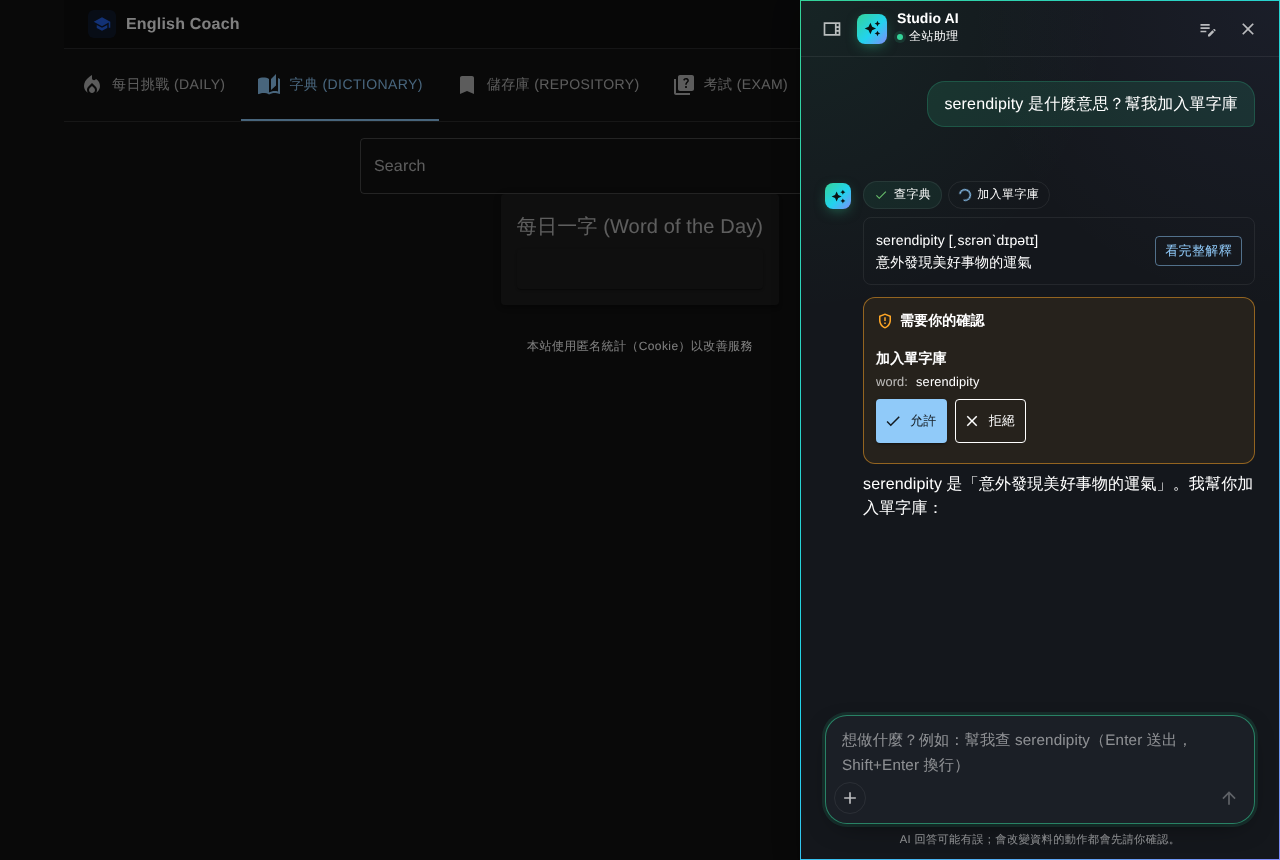
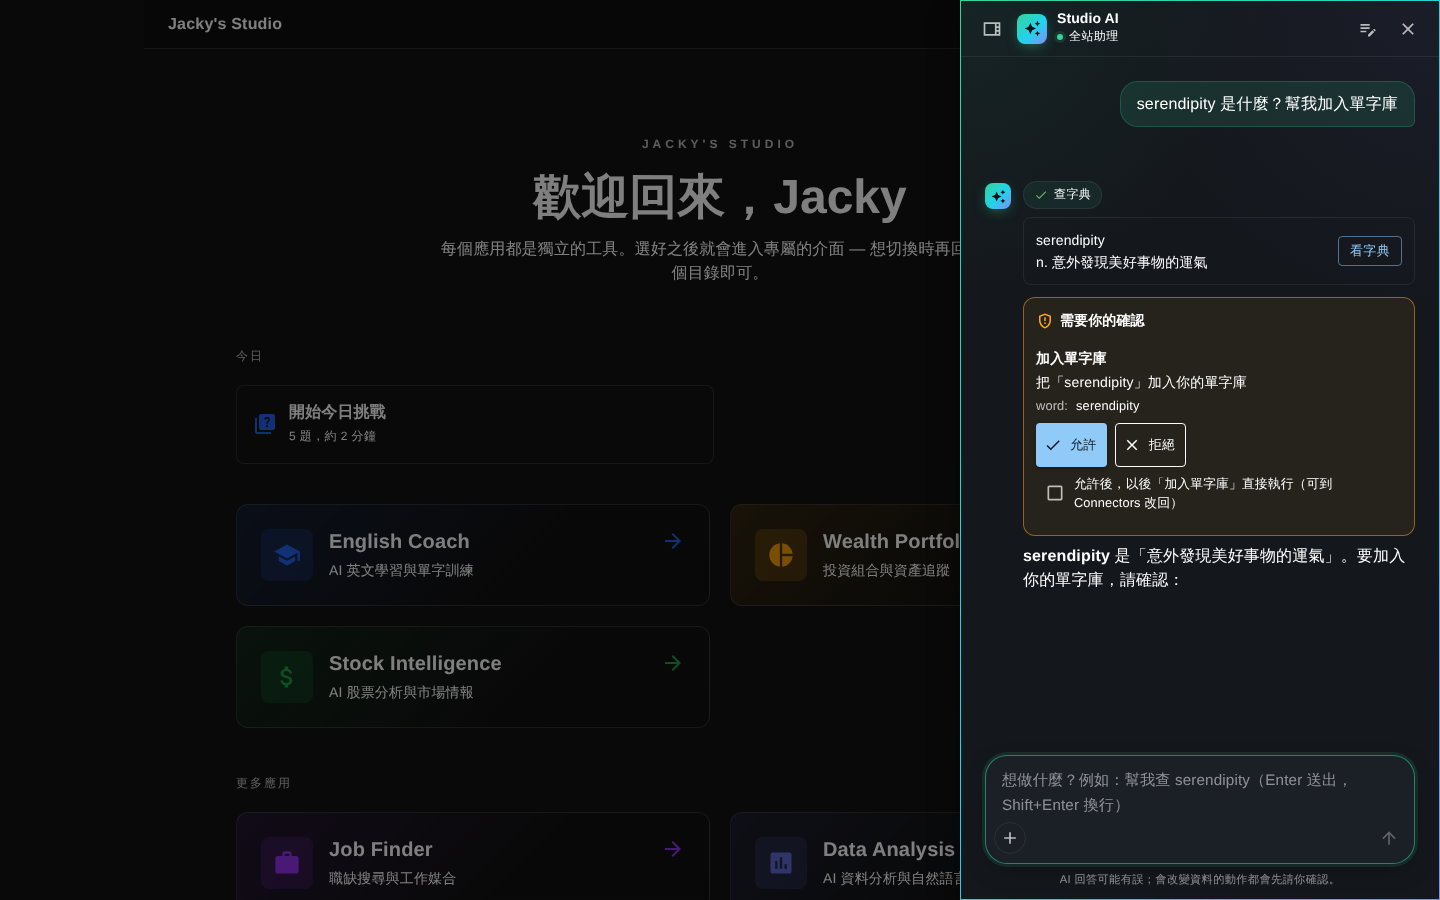
feat(chat): 確認卡可勾「以後直接執行」——本站工具的寫入、這段對話沒讀過外部內容時；允許後設成自動（同 Connectors 頁的權限）
無法復原的、外部 connector 的、讀過外部內容後的都不提供。截圖更新。

Claude-Session: https://claude.ai/code/session_01TAYBdTx9BamhbvCMxUfzVg

diff --git a/jackyaiapp.client/src/components/aiChat/components/ApprovalCard.tsx b/jackyaiapp.client/src/components/aiChat/components/ApprovalCard.tsx
@@ -1,7 +1,15 @@
 import CheckIcon from '@mui/icons-material/Check';
 import CloseIcon from '@mui/icons-material/Close';
 import GppMaybeOutlinedIcon from '@mui/icons-material/GppMaybeOutlined';
-import { Box, Button, ToggleButton, ToggleButtonGroup, Typography } from '@mui/material';
+import {
+  Box,
+  Button,
+  Checkbox,
+  FormControlLabel,
+  ToggleButton,
+  ToggleButtonGroup,
+  Typography,
+} from '@mui/material';
 import { alpha, useTheme } from '@mui/material/styles';
 import { useState } from 'react';
 
@@ -9,6 +17,7 @@ import {
   ApprovalCall,
   ApprovalDecision,
   ApprovalState,
+  canAlwaysAllow,
   decisionsFor,
   formatArgument,
   PendingApproval,
@@ -21,6 +30,8 @@ interface ApprovalCardProps {
   /** What was decided, once sent (shown in place of the buttons). */
   decisions?: readonly ApprovalDecision[];
   onSubmit: (decisions: ApprovalDecision[]) => void;
+  /** The calls the reader allowed and asked to let run on their own from now on (`canAlwaysAllow`). */
+  onAlwaysAllow?: (calls: ApprovalCall[]) => void;
 }
 
 const where = (call: ApprovalCall) =>
@@ -33,9 +44,23 @@ const where = (call: ApprovalCall) =>
  * would send, to allow or refuse one by one, then one 送出. A single call gets 允許 / 拒絕 straight
  * away. Once sent, the card keeps what was decided.
  */
-export default function ApprovalCard({ approval, state, decisions, onSubmit }: ApprovalCardProps) {
+export default function ApprovalCard({
+  approval,
+  state,
+  decisions,
+  onSubmit,
+  onAlwaysAllow,
+}: ApprovalCardProps) {
   const theme = useTheme();
   const [chosen, setChosen] = useState<Record<string, boolean>>({});
+  const [always, setAlways] = useState<Record<string, boolean>>({});
+  const submit = (sent: ApprovalDecision[]) => {
+    onSubmit(sent);
+    const allowed = approval.calls.filter(
+      (c) => always[c.toolUseId] && sent.some((d) => d.toolUseId === c.toolUseId && d.approve),
+    );
+    if (allowed.length > 0) onAlwaysAllow?.(allowed);
+  };
   const single = approval.calls.length === 1;
   const open = state === 'pending' || state === 'failed';
   const decided = new Map(decisions?.map((d) => [d.toolUseId, d.approve]));
@@ -120,7 +145,7 @@ export default function ApprovalCard({ approval, state, decisions, onSubmit }: A
                 size="small"
                 variant="contained"
                 startIcon={<CheckIcon />}
-                onClick={() => onSubmit(decisionsFor(approval.calls, { [call.toolUseId]: true }))}
+                onClick={() => submit(decisionsFor(approval.calls, { [call.toolUseId]: true }))}
               >
                 允許
               </Button>
@@ -129,7 +154,7 @@ export default function ApprovalCard({ approval, state, decisions, onSubmit }: A
                 variant="outlined"
                 color="inherit"
                 startIcon={<CloseIcon />}
-                onClick={() => onSubmit(decisionsFor(approval.calls, {}))}
+                onClick={() => submit(decisionsFor(approval.calls, {}))}
               >
                 拒絕
               </Button>
@@ -149,6 +174,26 @@ export default function ApprovalCard({ approval, state, decisions, onSubmit }: A
               <ToggleButton value="no">拒絕</ToggleButton>
             </ToggleButtonGroup>
           )}
+          {open && onAlwaysAllow && canAlwaysAllow(call, approval.tainted) && (
+            <FormControlLabel
+              sx={{
+                mt: 0.5,
+                ml: 0,
+                minHeight: 44,
+                '& .MuiFormControlLabel-label': { fontSize: '0.8rem' },
+              }}
+              control={
+                <Checkbox
+                  size="small"
+                  checked={always[call.toolUseId] === true}
+                  onChange={(e) =>
+                    setAlways((prev) => ({ ...prev, [call.toolUseId]: e.target.checked }))
+                  }
+                />
+              }
+              label={`允許後，以後「${call.displayName}」直接執行（可到 Connectors 改回）`}
+            />
+          )}
         </Box>
       ))}
 
@@ -157,7 +202,7 @@ export default function ApprovalCard({ approval, state, decisions, onSubmit }: A
           size="small"
           variant="contained"
           disabled={!allChosen}
-          onClick={() => onSubmit(decisionsFor(approval.calls, chosen))}
+          onClick={() => submit(decisionsFor(approval.calls, chosen))}
           sx={{ mt: 1, minHeight: 44 }}
         >
           送出

diff --git a/jackyaiapp.client/src/components/aiChat/components/ApprovalCard.test.tsx b/jackyaiapp.client/src/components/aiChat/components/ApprovalCard.test.tsx
@@ -136,4 +136,55 @@ describe('ApprovalCard', () => {
     expect(container.textContent).toContain('沒有送達，請再試一次。');
     expect(button('允許')).toBeDefined();
   });
+
+  describe('letting a site tool run on its own from now on', () => {
+    const checkbox = () => container.querySelector<HTMLInputElement>('input[type="checkbox"]');
+
+    function renderWith(approval: PendingApproval) {
+      const onSubmit = vi.fn();
+      const onAlwaysAllow = vi.fn();
+      act(() =>
+        root.render(
+          <ApprovalCard
+            approval={approval}
+            state="pending"
+            onSubmit={onSubmit}
+            onAlwaysAllow={onAlwaysAllow}
+          />,
+        ),
+      );
+      return { onSubmit, onAlwaysAllow };
+    }
+
+    it('goes with an allowed call when ticked', () => {
+      const { onSubmit, onAlwaysAllow } = renderWith({ pendingId: 'p', calls: [call('a')] });
+      expect(container.textContent).toContain('以後「加入單字」直接執行');
+
+      click(checkbox()!);
+      click(button('允許'));
+
+      expect(onSubmit).toHaveBeenCalledWith([{ toolUseId: 'a', approve: true }]);
+      expect(onAlwaysAllow).toHaveBeenCalledWith([expect.objectContaining({ toolUseId: 'a' })]);
+    });
+
+    it('is nothing when the call is refused, or the box left alone', () => {
+      const first = renderWith({ pendingId: 'p', calls: [call('a')] });
+      click(checkbox()!);
+      click(button('拒絕'));
+      expect(first.onAlwaysAllow).not.toHaveBeenCalled();
+
+      const second = renderWith({ pendingId: 'q', calls: [call('b')] });
+      click(button('允許'));
+      expect(second.onAlwaysAllow).not.toHaveBeenCalled();
+    });
+
+    it('is not offered for a destructive call, an outside connector’s, or after outside content', () => {
+      renderWith({ pendingId: 'p', calls: [call('a', { effect: 'destructive' })] });
+      expect(checkbox()).toBeNull();
+      renderWith({ pendingId: 'q', calls: [call('b', { connector: 'inst-1' })] });
+      expect(checkbox()).toBeNull();
+      renderWith({ pendingId: 'r', calls: [call('c')], tainted: true });
+      expect(checkbox()).toBeNull();
+    });
+  });
 });

diff --git a/jackyaiapp.client/src/components/aiChat/hooks/useChatConversation.ts b/jackyaiapp.client/src/components/aiChat/hooks/useChatConversation.ts
@@ -2,11 +2,17 @@ import { useCallback, useEffect, useRef, useState } from 'react';
 
 import { parseToolCard, type ToolCard } from '../cards/toolCard';
 import { Message, QueuedMessage } from '../types';
-import { ApprovalDecision, MessageApproval } from '../utils/approval';
+import {
+  alwaysAllowRequest,
+  ApprovalCall,
+  ApprovalDecision,
+  MessageApproval,
+} from '../utils/approval';
 import { applyToolEvent, settleToolSteps, ToolStep } from '../utils/toolActivity';
 
 import { chatbotApis, useLazyGetConversationMessagesQuery } from '@/apis/chatbotApis';
 import { ChatAttachment, ChatHistoryMessage } from '@/apis/chatbotApis/types';
+import { connectorsApi } from '@/apis/connectorsApis/connectorsApis';
 import { ChatStreamingOptions, stoppedContent, useChatStreaming } from '@/hooks/useChatStreaming';
 import { useStreamingHtmlParser } from '@/hooks/useStreamingHtmlParser';
 import { useAppDispatch } from '@/redux/hooks';
@@ -247,6 +253,13 @@ export function useChatConversation(options?: ChatStreamingOptions) {
     }
   };
 
+  /** Lets the tools of these allowed calls run without asking from now on, as the connectors page would. */
+  const allowAlways = (calls: ApprovalCall[]) => {
+    for (const call of calls) {
+      void dispatch(connectorsApi.endpoints.setToolPermission.initiate(alwaysAllowRequest(call)));
+    }
+  };
+
   const removeQueued = (key: string) => setQueued((prev) => prev.filter((q) => q.key !== key));
 
   return {
@@ -262,6 +275,7 @@ export function useChatConversation(options?: ChatStreamingOptions) {
     edit,
     removeQueued,
     decide,
+    allowAlways,
     newChat,
     selectConversation,
   };

diff --git a/jackyaiapp.client/src/components/aiChat/utils/approval.test.ts b/jackyaiapp.client/src/components/aiChat/utils/approval.test.ts
@@ -1,6 +1,12 @@
 import { describe, expect, it } from 'vitest';
 
-import { decisionsFor, formatArgument, type ApprovalCall } from './approval';
+import {
+  alwaysAllowRequest,
+  canAlwaysAllow,
+  decisionsFor,
+  formatArgument,
+  type ApprovalCall,
+} from './approval';
 
 const call = (toolUseId: string): ApprovalCall => ({
   toolUseId,
@@ -36,5 +42,33 @@ describe('decisionsFor', () => {
       { toolUseId: 'b', approve: false },
       { toolUseId: 'c', approve: false },
     ]);
+  });
+});
+
+describe('canAlwaysAllow', () => {
+  const siteWrite = (patch: Partial<ApprovalCall>): ApprovalCall => ({
+    toolUseId: 't',
+    connector: 'site',
+    tool: 'add_word_to_repository',
+    displayName: '加入單字庫',
+    effect: 'write',
+    input: {},
+    ...patch,
+  });
+
+  it('is offered for a site tool’s write, as the connectors page would set it', () => {
+    expect(canAlwaysAllow(siteWrite({}))).toBe(true);
+    expect(alwaysAllowRequest(siteWrite({}))).toEqual({
+      definitionKey: 'site',
+      installationId: null,
+      toolName: 'add_word_to_repository',
+      permission: 'auto',
+    });
+  });
+
+  it('is not for what can never run on its own, an outside connector, or after outside content', () => {
+    expect(canAlwaysAllow(siteWrite({ effect: 'destructive' }))).toBe(false);
+    expect(canAlwaysAllow(siteWrite({ connector: 'inst-1', tool: 'm1__create' }))).toBe(false);
+    expect(canAlwaysAllow(siteWrite({}), true)).toBe(false);
   });
 });

diff --git a/jackyaiapp.client/src/components/aiChat/components/MessageArea.tsx b/jackyaiapp.client/src/components/aiChat/components/MessageArea.tsx
@@ -8,7 +8,7 @@ import ToolCards from '../cards/ToolCards';
 import { useAiChatConfig } from '../config';
 import { ACCENT, accentWash, hairline, revealActionsOnHover } from '../style';
 import { Message } from '../types';
-import { ApprovalDecision } from '../utils/approval';
+import { ApprovalCall, ApprovalDecision } from '../utils/approval';
 
 import ApprovalCard from './ApprovalCard';
 import AssistantMark from './AssistantMark';
@@ -41,6 +41,8 @@ interface MessageAreaProps {
   onEdit?: (message: Message, text: string) => void;
   /** The reader allowed or refused the writes an answer is waiting on. */
   onDecide?: (pendingId: string, decisions: ApprovalDecision[]) => void;
+  /** Lets the tools of these allowed calls run on their own from now on (the approval card's checkbox). */
+  onAlwaysAllow?: (calls: ApprovalCall[]) => void;
 }
 
 // 單個區塊渲染組件
@@ -151,6 +153,7 @@ function MessageArea({
   busy = false,
   onEdit,
   onDecide,
+  onAlwaysAllow,
 }: MessageAreaProps) {
   const theme = useTheme();
   // The reader's message being edited in place, by its id.
@@ -314,6 +317,7 @@ function MessageArea({
                     onSubmit={(decisions) =>
                       onDecide?.(message.approval!.request.pendingId, decisions)
                     }
+                    onAlwaysAllow={onAlwaysAllow}
                   />
                 )}
                 {!message.parsedBlocks?.length && message.content ? (

diff --git a/jackyaiapp.client/src/components/aiChat/utils/approval.ts b/jackyaiapp.client/src/components/aiChat/utils/approval.ts
@@ -3,6 +3,7 @@
  * §1.3): the server sends `approval_required` and holds the turn until the decisions arrive, then
  * carries on in the same stream (`approval_resolved`).
  */
+import type { ToolPermissionRequest } from '@/apis/connectorsApis/types';
 import type { ApprovalCallEvent } from '@/hooks/useChatStreaming';
 
 /** One call to decide: its connector's key ("site" for the site's own tools) and what the reader
@@ -48,3 +49,19 @@ export const decisionsFor = (
   chosen: Readonly<Record<string, boolean>>,
 ): ApprovalDecision[] =>
   calls.map((c) => ({ toolUseId: c.toolUseId, approve: chosen[c.toolUseId] === true }));
+
+/**
+ * Whether the card offers to let the call's tool run on its own from now on: a site tool's write (an outside
+ * connector's tools are set on the connectors page, and a destructive one never runs on its own), and only in a
+ * conversation that has not read outside content, where the server would ask anyway.
+ */
+export const canAlwaysAllow = (call: ApprovalCall, tainted?: boolean): boolean =>
+  call.connector === SITE_CONNECTOR && call.effect === 'write' && !tainted;
+
+/** The connectors page's request that lets the call's tool run without asking (`PUT tool-permissions`). */
+export const alwaysAllowRequest = (call: ApprovalCall): ToolPermissionRequest => ({
+  definitionKey: SITE_CONNECTOR,
+  installationId: null,
+  toolName: call.tool,
+  permission: 'auto',
+});

diff --git a/jackyaiapp.client/src/components/aiChat/index.tsx b/jackyaiapp.client/src/components/aiChat/index.tsx
@@ -202,6 +202,7 @@ function AiAssistantPanel({
             busy={busy}
             onEdit={conversation.edit}
             onDecide={(pendingId, decisions) => void conversation.decide(pendingId, decisions)}
+            onAlwaysAllow={conversation.allowAlways}
           />
           <ChatInput
             value={inputValue}

diff --git a/jackyaiapp.client/CLAUDE.md b/jackyaiapp.client/CLAUDE.md
@@ -51,7 +51,9 @@ jackyaiapp.client/src/
   that the app passes to `AiAssistantLauncher` (Finance's is `Finance/aiChatConfig.ts`); the chat's
   parts read it with `useAiChatConfig()`, so their tests render under an `AiChatConfigContext`. The tools
   an answer used are `ToolActivity` (from the stream's `tool_use`/`tool_result`, `utils/toolActivity`),
-  a write waiting for the reader is `ApprovalCard` (`approval_required`, `utils/approval`). What a tool's
+  a write waiting for the reader is `ApprovalCard` (`approval_required`, `utils/approval`; for a site tool's write, outside a
+  conversation that read outside content, it offers to let the tool run on its own from now on, `canAlwaysAllow`, which
+  sets the same permission as the connectors page). What a tool's
   result shows in the answer is a card (`tool_result.card`, `cards/`): it comes from a tool, so it is
   untrusted, and `parseToolCard` keeps only plain text and numbers within limits and links to this site
   or https. The chat draws `table` and `link`; another kind is drawn by the app's renderer for it
